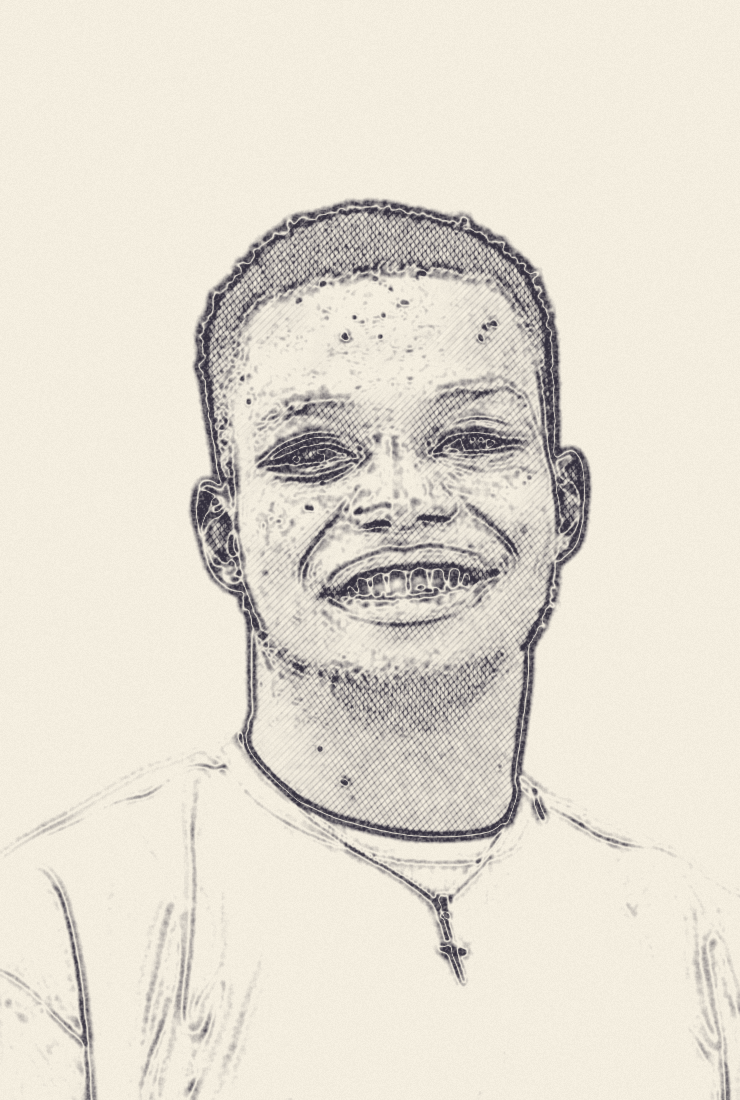
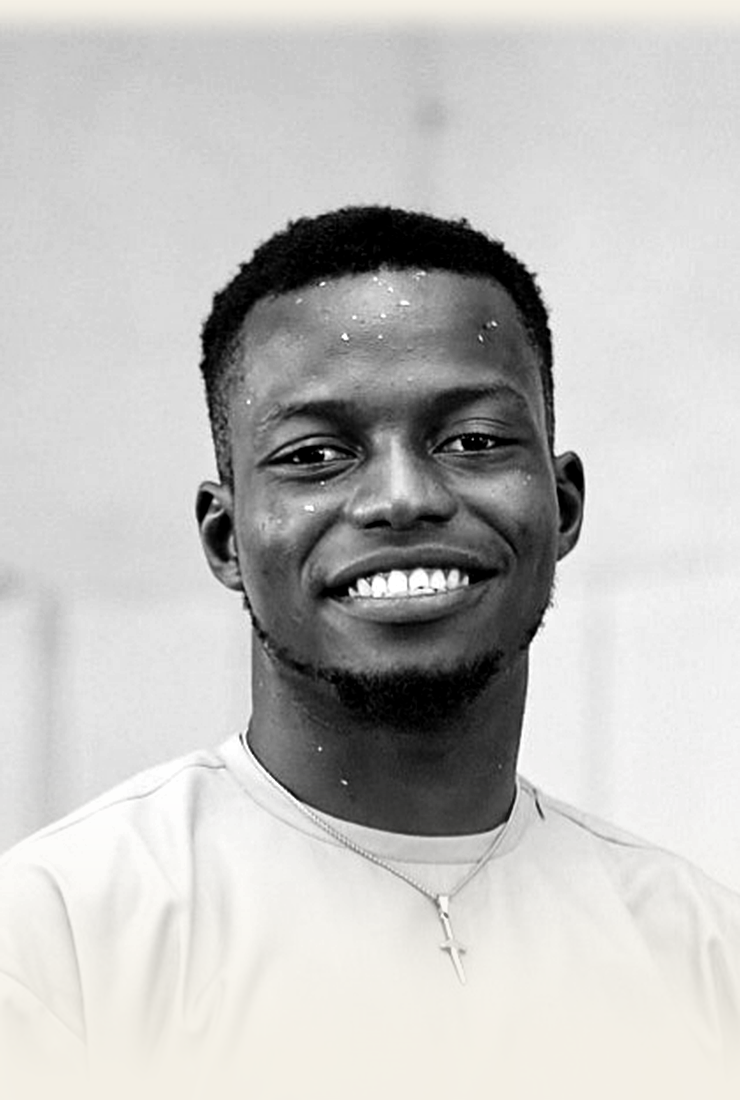
Setup: black and white bottom-fade portrait with full face; Mac builds signed ad hoc so Apple chip and Intel both open; download helper says how to tell which Mac

diff --git a/tools/appdl.js b/tools/appdl.js
@@ -14,10 +14,11 @@
     return null;
   }
   window.AppDL = function (cfg) {
+    var archKnown = false;
     var arch = 'arm'; /* most Macs since 2020 have an Apple chip; Chrome and Edge can tell us exactly */
     var hasLinux = !!(cfg.files && cfg.files.linux);
     var ready = (navigator.userAgentData && navigator.userAgentData.getHighEntropyValues)
-      ? navigator.userAgentData.getHighEntropyValues(['architecture']).then(function (v) { arch = /x86/i.test(v.architecture || '') ? 'intel' : 'arm'; }).catch(function () {})
+      ? navigator.userAgentData.getHighEntropyValues(['architecture']).then(function (v) { if (v.architecture) { archKnown = true; arch = /x86/i.test(v.architecture) ? 'intel' : 'arm'; } }).catch(function () {})
       : Promise.resolve();
     function link(key) { return cfg.base + cfg.files[key]; }
     function macKey() { return arch === 'intel' ? 'macIntel' : 'macArm'; }
@@ -42,7 +43,8 @@
         } else if (os === 'mac') {
           el.textContent = 'Download for Mac' + (arch === 'intel' ? ' (Intel)' : ' (Apple chip)'); el.href = link(macKey());
           var o = arch === 'intel' ? 'macArm' : 'macIntel';
-          if (other) other.innerHTML = (arch === 'intel' ? 'Apple chip Mac? ' : 'Intel Mac? ') + a(o, 'Download the ' + (arch === 'intel' ? 'Apple chip' : 'Intel') + ' version') + ' | ' + a('win', 'Windows') + linuxLinks();
+          if (other) other.innerHTML = (arch === 'intel' ? 'Apple chip Mac? ' : 'Intel Mac? ') + a(o, 'Download the ' + (arch === 'intel' ? 'Apple chip' : 'Intel') + ' version') + ' | ' + a('win', 'Windows') + linuxLinks()
+            + (archKnown ? '' : '<br>Not sure which Mac you have? Click the Apple menu, then About This Mac. If it says Chip (M1, M2, M3, M4), use Apple chip. If it says Processor Intel, use Intel.');
         } else {
           el.textContent = 'Download for Linux'; el.href = link('linux');
           if (other) other.innerHTML = (cfg.files.linuxAlt ? a('linuxAlt', linuxName('linuxAlt')) + ' | ' : '') + a('win', 'Windows') + ' | ' + a('macArm', 'Mac, Apple chip') + ' | ' + a('macIntel', 'Mac, Intel');

diff --git a/desktop/presenter-app/build/afterPack.js b/desktop/presenter-app/build/afterPack.js
@@ -1,0 +1,10 @@
+// Mac builds are not signed with a paid Apple certificate, but an app with no signature at all will not start on an
+// Apple chip Mac ("is damaged"). Signing it ad hoc with "-" fixes that for both Apple chip and Intel Macs.
+const { execFileSync } = require('child_process');
+const path = require('path');
+exports.default = async function (context) {
+  if (context.electronPlatformName !== 'darwin') return;
+  const app = path.join(context.appOutDir, context.packager.appInfo.productFilename + '.app');
+  execFileSync('codesign', ['--force', '--deep', '--sign', '-', app], { stdio: 'inherit' });
+  console.log('Signed ad hoc: ' + app);
+};

diff --git a/desktop/presenter-installer/setup/Setup.cs b/desktop/presenter-installer/setup/Setup.cs
@@ -295,7 +295,7 @@ namespace EvansLarge.PresenterSetup
             brand.Children.Add(bt);
             top.Children.Add(brand);
             Border badge = new Border { Width = 84, Height = 84, CornerRadius = new CornerRadius(42), Background = B("#F4EEE0"), BorderBrush = new SolidColorBrush(Color.FromArgb(230, 255, 255, 255)), BorderThickness = new Thickness(3), HorizontalAlignment = HorizontalAlignment.Right, ClipToBounds = true };
-            Image bi = new Image { Source = Img("portrait-sketch.png"), Stretch = Stretch.UniformToFill, Margin = new Thickness(-8, -2, -8, -14) };
+            Image bi = new Image { Source = Img("portrait-face.png"), Stretch = Stretch.UniformToFill };
             badge.Child = bi;
             badge.Clip = new EllipseGeometry(new Point(42, 42), 40, 40);
             top.Children.Add(badge);
